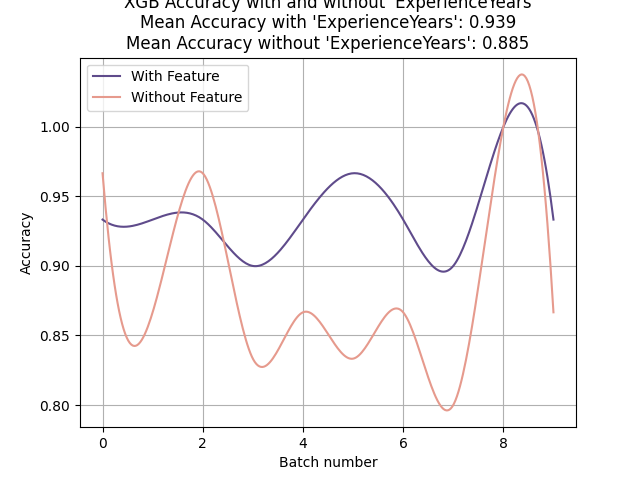
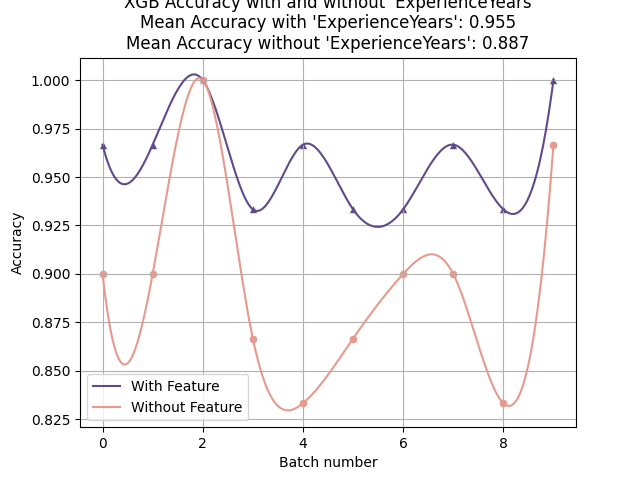
modified main.py so it's tidier and easier to use.

diff --git a/main.py b/main.py
@@ -27,6 +27,95 @@ def check_multiple_cols(data: pd.DataFrame, columns: List[str], function: callab
             a.to_csv(f'Analysis Plots/Dependency Results/{col}_dependence_with_others.csv')
 
 
+def make_pca(data: pd.DataFrame, n_components: int):
+    """
+    Make PCA on the data.
+    :param data: the data
+    :param n_components: the number of components
+    :return:
+    """
+    sa.plot_pca(data, n_components)
+
+
+def check_feature_dependence(data: pd.DataFrame, features: List, **kwargs):
+    """
+    Check the dependence of the feature on the target column.
+    :param data: the data
+    :param features: list of features to check
+    :param kwargs: the keyword arguments
+    :return:
+    """
+    check_multiple_cols(data, features, sa.check_dependence, **kwargs)
+
+
+def check_feature_distribution(data: pd.DataFrame, features: List[str], **kwargs):
+    """
+    Check the distribution of the features.
+    :param data: the data
+    :param features: the features to check
+    :param kwargs: the keyword arguments
+    :return:
+    """
+    check_multiple_cols(data, features, sa.analyze_distribution, **kwargs)
+
+
+def check_features_improvement(features: List[str], **kwargs) -> (List, List):
+    """
+    Check the improvement of the feature on the target column.
+    :param features: list of features to check
+    :param kwargs: the keyword arguments
+    :return:
+    """
+    # check the hypothesis with the xgboost model
+    xgb_diff = []
+    normal_xgb_diffs = {}  # store the names of normal differences
+    for i, feature in enumerate(features):
+        print(f"Testing the theory of '{feature}' improvement with {kwargs['model_name']}:")
+        a_, b_, is_normal = sa.test_theory_feature_improvement(df, feature, **kwargs)
+        xgb_diff.append(list(np.array(b_) - np.array(a_)))  # get the differences
+        normal_xgb_diffs[feature] = is_normal
+        print('-' * 40)
+
+    # check the hypothesis with the neural network
+    nn_diff = []
+    normal_nn_diffs = {}  # store the names of normal differences
+    function_args['model_name'] = 'nn'
+    for i, feature in enumerate(features):
+        print(f"Testing the theory of '{feature}' improvement with {kwargs['model_name']}:")
+        a_, b_, is_normal = sa.test_theory_feature_improvement(df, feature, **kwargs)
+        nn_diff.append(list(np.array(b_) - np.array(a_)))  # get the differences
+        normal_nn_diffs[feature] = is_normal
+        print('-' * 40)
+
+    return (xgb_diff, normal_xgb_diffs), (nn_diff, normal_nn_diffs)
+
+
+def test_anova(results: List, normal_flags: List, **kwargs):
+    """
+    Test the results' improvements using the ANOVA test.
+    :param results: the results to test
+    :param normal_flags: the normal flags
+    :param kwargs: the keyword arguments
+    :return:
+    """
+    results_to_test = [results[i] for i, flag in enumerate(normal_flags) if flag]
+    print("Applying the ANOVA test on the normally distributed differences:", results_to_test)
+    sa.test_theory_contribution(results_to_test, **kwargs)
+
+
+def check_biases(data: pd.DataFrame, features: List[str]):
+    """
+    Check the biases in the data.
+    :param data: the data
+    :param features: the features to check
+    :return:
+    """
+    for feature in features:
+        print(f"Checking the bias of {feature} on the target column...")
+        sa.plot_feature_biases(data, feature, True if feature not in ['Age', 'DistanceFromCompany'] else False)
+        print('-' * 40)
+
+
 # Press the green button in the gutter to run the script.
 if __name__ == '__main__':
 
@@ -41,48 +130,37 @@ if __name__ == '__main__':
     # regular columns
     regular_cols = ["Age", "Gender", "EducationLevel", "ExperienceYears", "PreviousCompanies"]
 
+    misc_cols = ['DistanceFromCompany']
+
     target_col = "HiringDecision"
 
-    # plot PCA
-    # sa.plot_pca(df, 2)
-    # sa.plot_pca(df, 3)
+    ALL_COLS = important_cols + regular_cols + misc_cols
 
-    # check the distribution of the important columns
-    # check_multiple_cols(df, important_cols, sa.analyze_distribution, **function_args)
+    """
+    check the distribution of the features
+    """
+    # check_feature_distribution(df, ALL_COLS, **function_args)
 
-    # check the dependence of the important columns on the target column
-    # check_multiple_cols(df, important_cols, sa.check_dependence, **function_args)
+    """
+    Test the dependence of the features on the target column
+    """
+    # check_feature_dependence(df, ALL_COLS, **function_args)
 
-    # check the hypothesis with the xgboost model
-    xgb_differences = []
-    for i, feature in enumerate(regular_cols):
-        print(f"Testing the theory of {feature} improvement with {function_args['model_name']}:")
-        a_, b = sa.test_theory_feature_improvement(df, feature, **function_args)
-        xgb_differences.append(list(np.array(b) - np.array(a_)))  # get the differences
-        print('-'*40)
+    """
+    Check biases and tendencies in the data
+    """
+    # check_biases(df, ALL_COLS)
 
-    # check the hypothesis with the neural network
-    nn_diff = []
-    function_args['model_name'] = 'nn'
-    for i, feature in enumerate(regular_cols):
-        print(f"Testing the theory of {feature} improvement with {function_args['model_name']}:")
-        a_, b = sa.test_theory_feature_improvement(df, feature, **function_args)
-        nn_diff.append(list(np.array(b) - np.array(a_)))  # get the differences
-        print('-'*40)
+    """
+    Check the improvement of the features on the target column
+    """
+    # xgb_results, nn_results = check_features_improvement(ALL_COLS, **function_args)
 
-    # perform the ANOVA test
-    print("ANOVA test for XGB:")
-    sa.test_theory_contribution(xgb_differences, **function_args)
-    print('-' * 100)
-    print("ANOVA test for NN:")
-    sa.test_theory_contribution(nn_diff, **function_args)
-
-    # check the biases.
-    # for col in regular_cols:
-    #     print(f"\nChecking the bias of {col} on the target column...")
-    #     show_rates = True if col != "Age" else False
-    #     sa.plot_feature_biases(df, col, show_rates)
-    #     print('-'*40)
+    """
+    Perform the ANOVA test on the results of the features
+    """
+    # test_anova(xgb_results[0], xgb_results[1].values(), **function_args)
+    # test_anova(nn_results[0], nn_results[1].values(), **function_args)
 
 # todo: show some biases between the values of each categorical feature's values and the target column.
 # todo: check the same results for other features (compare the accuracy of the model with and without the feature)

diff --git a/statistic_analysis.py b/statistic_analysis.py
@@ -327,6 +327,9 @@ def test_theory_feature_improvement(data: pd.DataFrame, feature: str, **kwargs):
         spl = make_interp_spline(range(n_batches), accs_without, k=3)
         accs_without = spl(x_vals)
         sns.lineplot(x=x_vals, y=accs_without, color=RED, label='Without Feature')
+        # mark the actual measured points
+        sns.scatterplot(x=range(n_batches), y=accuracies_with_feature, color=BLUE, marker='^')
+        sns.scatterplot(x=range(n_batches), y=accuracies_without_feature, color=RED)
         plt.xlabel('Batch number')
         plt.ylabel('Accuracy')
         plt.legend()
@@ -352,7 +355,7 @@ def test_theory_feature_improvement(data: pd.DataFrame, feature: str, **kwargs):
     print(f"Normality test for '{feature}' (Shapiro-Wilk):")
     print(f"p-value: {p_shapiro:.5f}", end='')
 
-    if p_shapiro > ALPHA:
+    if p_shapiro > ALPHA:  # If the p-value is greater than 0.05 meaning the differences are normally distributed
         print(f" The differences are normally distributed for '{feature}'.")
 
         # Perform the paired t-test
@@ -385,7 +388,7 @@ def test_theory_feature_improvement(data: pd.DataFrame, feature: str, **kwargs):
             else:
                 print(f"The feature '{feature}' improves the accuracy of the model.")
 
-    return accuracies_with_feature, accuracies_without_feature
+    return accuracies_with_feature, accuracies_without_feature, p_shapiro > ALPHA
 
 
 def test_theory_contribution(differences_per_feature: List, **kwargs):
